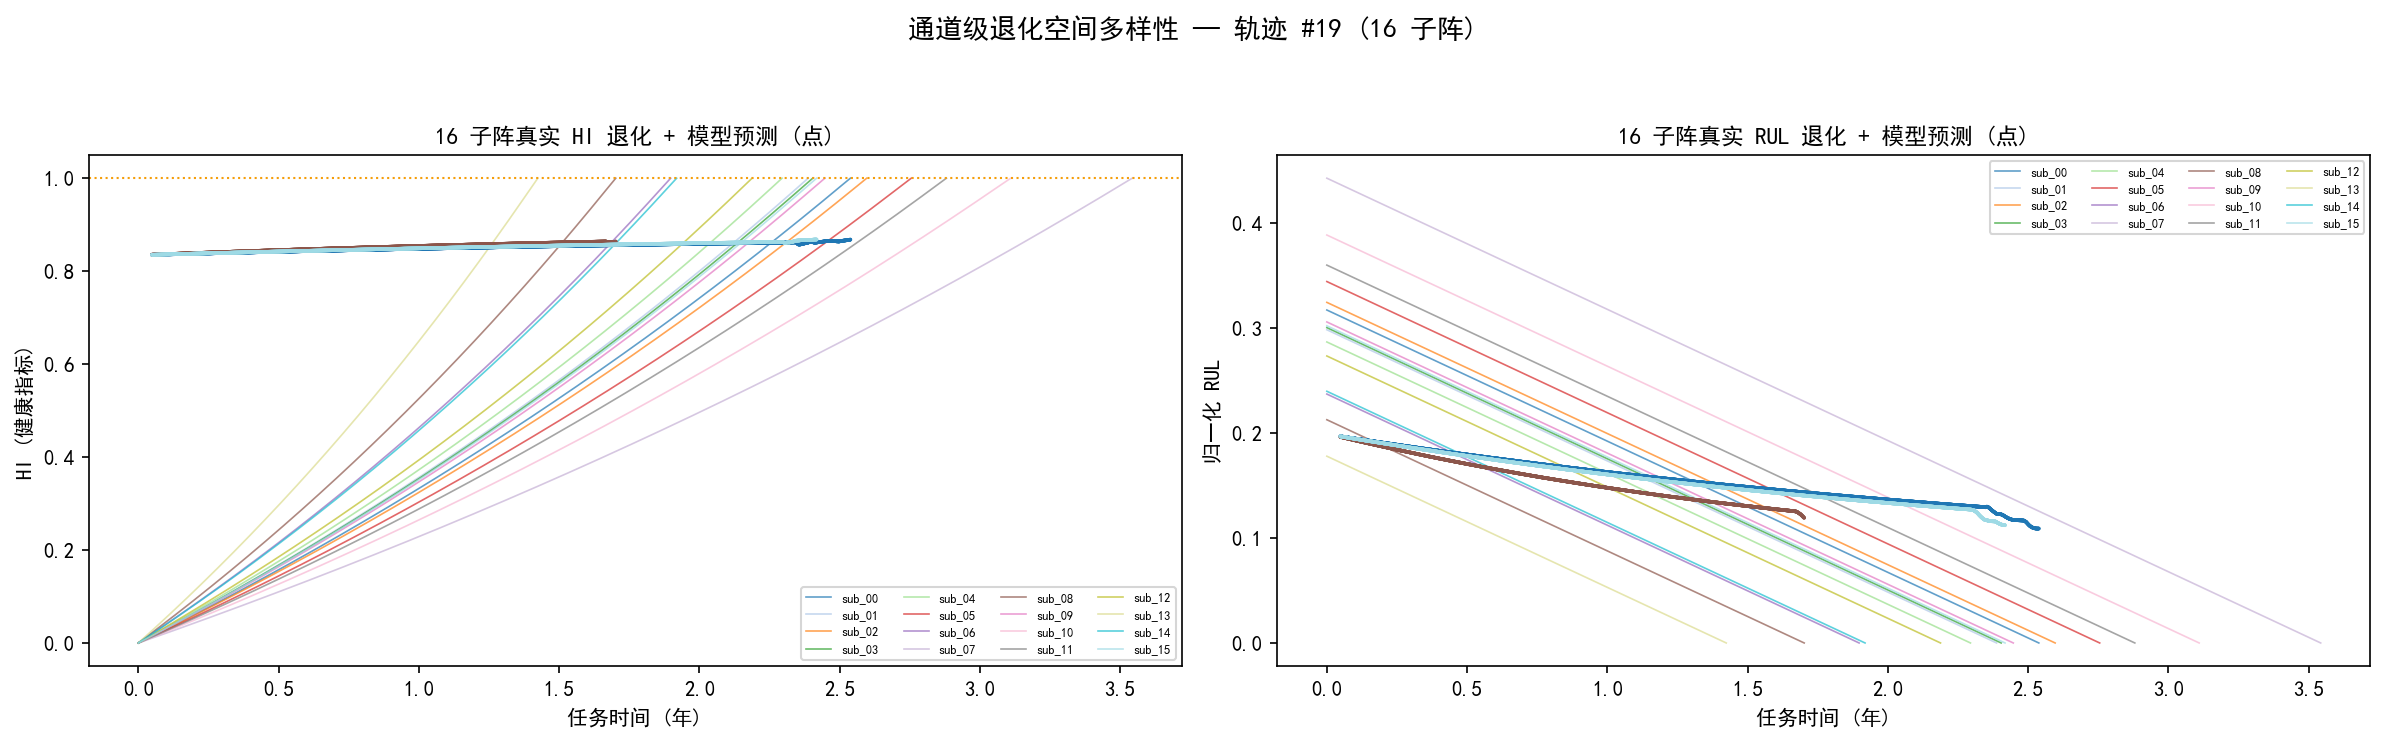
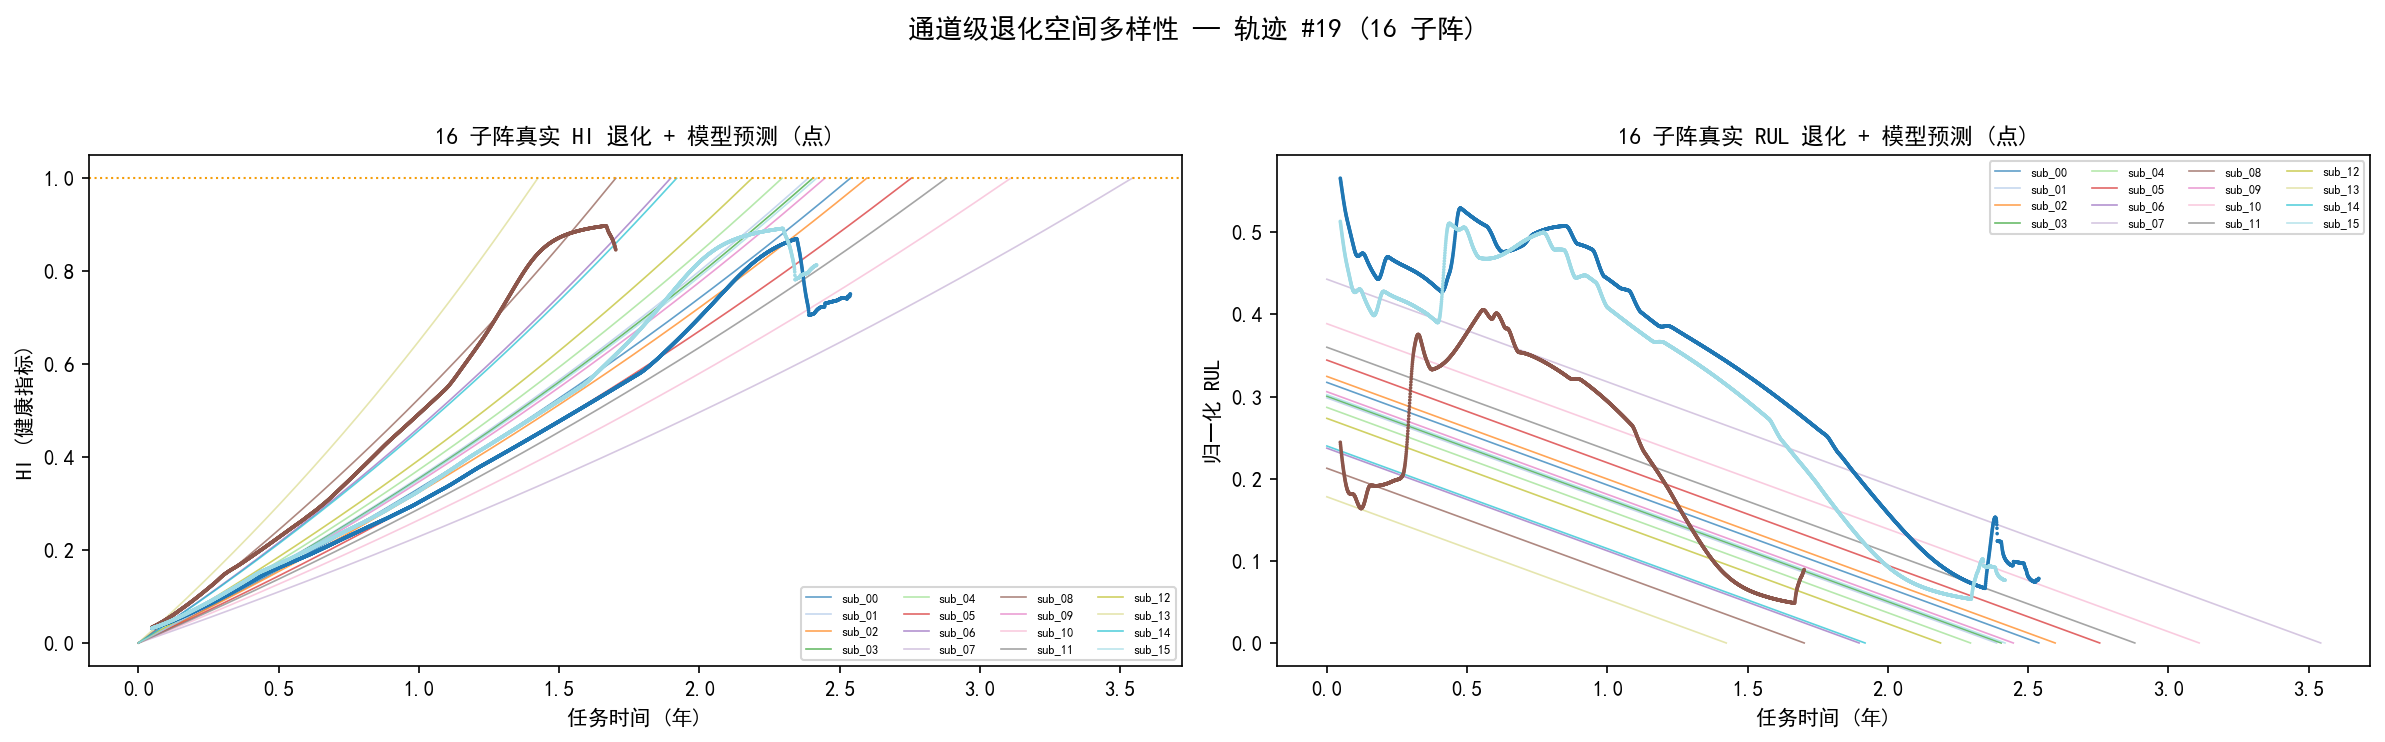
refactor(plot): 通道级三图 bundle-only 化 — 删内嵌重训, 训练前置图消费冻结权重
评审模拟验证发现: 原脚本内嵌 20-epoch 轻量重训(历史设计, 早于 F1 批3 bundle 导出机制),
图内数字与表 5 冻结主结果非同一模型, 且 CPU 出图耗时 1h+。

重构(607→494 行):
- 删除 train_model/_train/_train_epoch/_eval_rmse/build_model 训练路径
- --bundle-dir 必填: component.predict_gru 的 load_bundle+rebuild_model strict 加载
- 归一化用 bundle.json 冻结统计量(与推理链路完全一致)
- 三图由冻结主模型重出(Windows), 图内数字与表 5 同模型同口径

交付封装: 源码包以此版本打包(PACKAGING_NOTES 差异声明第 4 条);
不重打 RC、不动 v0.3.1 Tag — 本 PR 为包-仓一致留痕, 避免赛后漂移无据。

验证: WSL2 容器 + Windows 双端实跑出图; 训练符号零残留; py_compile 过。
归一疑点实验附带排除: 主模型对原始尺度输入亦鲁棒(旧图无虚假, 仅口径不统一)。

diff --git a/scripts/plot_trajectory_channel.py b/scripts/plot_trajectory_channel.py
@@ -41,7 +41,6 @@ from src.utils import load_config, set_seed                                  # n
 from src.transfer.train_transfer import TargetSeqDataset, split_trajectories  # noqa: E402
 from src.transfer.adapter import TransferModel                                # noqa: E402
 from src.transfer.channel_dataset import load_target_channel                  # noqa: E402
-from src.train.pretrain import _rul_loss                                      # noqa: E402
 
 CKPT_DIR = ROOT / "checkpoints"
 N_SUB = 16
@@ -51,7 +50,6 @@ plt.rcParams["axes.unicode_minus"] = False
 
 C_TRUE = "#1a1a1a"
 C_TARGET = "#2563eb"
-C_SOURCE = "#dc2626"
 C_EOL = "#f59e0b"
 # 16 子阵配色 (tab20 色环)
 SUB_COLORS = plt.cm.tab20(np.linspace(0, 1, N_SUB))
@@ -99,105 +97,6 @@ def load_and_prepare(cfg, seed):
                 evT=evT, lbT=lbT, damageT=damageT,
                 tr=tr, va=va, te=te, n_traj=n_traj, L=L, K=K,
                 rul_max=rul_max, n_features=xT.shape[1], h5_path=h5_path)
-
-
-# ===================================================================== 模型
-def build_model(cfg, n_target, device, encoder="gru"):
-    # F1-A: 复用唯一构造函数 (与训练/评估/导出/推理同架构, 防漂移)
-    from src.models.factory import build_transfer_model
-    return build_transfer_model(cfg, n_features=4, n_target=n_target,
-                                encoder_type=encoder, device=device)
-
-
-def _train_epoch(model, loader, opt, device, huber, mse, lam):
-    model.train()
-    for x, h, r, ev, lb, dmg in loader:
-        x, h, r = x.to(device), h.to(device), r.to(device)
-        ev, lb = ev.to(device), lb.to(device)
-        B, Kk = x.size(0), x.size(1)
-        hi_p, rul_p, _ = model(x.reshape(B * Kk, x.size(2), x.size(3)))
-        hi_p = hi_p.view(B, Kk)
-        rul_p = rul_p.view(B, Kk)
-        Lr, _, _ = _rul_loss(rul_p, r, ev, lb, huber, 1.0)
-        Lh = mse(hi_p, h)
-        d = hi_p[:, 1:] - hi_p[:, :-1]
-        loss = Lr + lam[0] * Lh + lam[1] * torch.relu(-d).mean() + lam[2] * (d * d).mean()
-        opt.zero_grad()
-        loss.backward()
-        torch.nn.utils.clip_grad_norm_(model.parameters(), 1.0)
-        opt.step()
-
-
-@torch.no_grad()
-def _eval_rmse(model, loader, device):
-    model.eval()
-    preds, labels, evs = [], [], []
-    for x, h, r, ev, lb, dmg in loader:
-        x = x.to(device)
-        B, Kk = x.size(0), x.size(1)
-        _, rul_p, _ = model(x.reshape(B * Kk, x.size(2), x.size(3)))
-        preds.append(rul_p.cpu().numpy())
-        labels.append(r.reshape(-1).numpy())
-        evs.append(ev.reshape(-1).numpy())
-    p = np.concatenate(preds) if preds else np.array([0.0])
-    t = np.concatenate(labels) if labels else np.array([0.0])
-    e = np.concatenate(evs) if evs else np.array([True])
-    m = e.astype(bool)
-    return float(np.sqrt(np.mean((p[m] - t[m]) ** 2))) if m.any() else 0.0
-
-
-def _train(model, ltr, lva, opt, device, huber, mse, lam, epochs, tag):
-    best = (float("inf"), None)
-    for ep in range(epochs):
-        _train_epoch(model, ltr, opt, device, huber, mse, lam)
-        vm = _eval_rmse(model, lva, device)
-        if vm < best[0]:
-            best = (vm, {k: v.detach().clone() for k, v in model.state_dict().items()})
-    if best[1] is not None:
-        model.load_state_dict(best[1])
-    print(f"  [{tag}] best val_rmse={best[0]:.4f}")
-
-
-def train_model(model_name, data, cfg, device):
-    tc = cfg["transfer"]
-    _lc = cfg["loss"]
-    lam = (float(_lc.get("beta_hi", 1.0)),
-           float(_lc.get("mu_mono", 1.0)),
-           float(_lc.get("nu_smooth", 0.1)))
-    huber = torch.nn.HuberLoss(delta=float(_lc["huber_delta"]))
-    mse = torch.nn.MSELoss()
-    L, K = data["L"], data["K"]
-    tstride = int(tc.get("target_stride", 50))
-    bs = int(cfg["pretrain"]["batch_size"])
-    epochs = int(tc.get("epochs_s2", 20))
-
-    def mkDS(ids):
-        m = np.isin(data["tidT"], ids)
-        return TargetSeqDataset(data["xT"][m], data["hiT"][m], data["rulT"][m],
-                                data["ckT"][m], L, K, stride=tstride,
-                                event_observed=data["evT"][m],
-                                rul_lower_bound=data["lbT"][m],
-                                damage_b=data["damageT"][m])
-
-    ltr = DataLoader(mkDS(data["tr"]), batch_size=bs, shuffle=True)
-    lva = DataLoader(mkDS(data["va"]), batch_size=bs, shuffle=False)
-
-    if model_name == "ch_target_only_gru":
-        model = build_model(cfg, data["n_features"], device, encoder="gru")
-        model.freeze_encoder(False)
-        opt = torch.optim.Adam(model.parameters(), lr=float(tc["finetune_lr"]))
-        _train(model, ltr, lva, opt, device, huber, mse, lam, epochs, "ch_target_only_gru")
-    elif model_name == "ch_source_pretrain_frozen":
-        model = build_model(cfg, data["n_features"], device, encoder="tcn")
-        ckpt = str(CKPT_DIR / "source_phased_array_tcn_pretrain.pt")
-        if Path(ckpt).exists():
-            model.load_pretrained(ckpt, device)
-            print(f"  加载源域 checkpoint: {ckpt}")
-        model.freeze_encoder(True)
-        opt = torch.optim.Adam([p for p in model.parameters() if p.requires_grad],
-                               lr=float(tc["finetune_lr"]))
-        _train(model, ltr, lva, opt, device, huber, mse, lam, epochs, "ch_source_pretrain_frozen")
-    return model
 
 
 # ===================================================================== 逐通道推理
@@ -305,7 +204,7 @@ def select_test_trajectory(data, h5_path, min_T=600):
 
 
 # ===================================================================== 画图
-def plot_ch_rul_trajectory(model_tgt, model_src, data, traj_id, device, out_path):
+def plot_ch_rul_trajectory(model_tgt, data, traj_id, device, out_path):
     """图1: 通道级 RUL 预测轨迹面板 (2×3)。"""
     subs_raw = read_traj_channel_raw(data["h5_path"], traj_id)
     if subs_raw is None:
@@ -323,8 +222,11 @@ def plot_ch_rul_trajectory(model_tgt, model_src, data, traj_id, device, out_path
     L, K = data["L"], data["K"]
     rul_max = data["rul_max"]
     # 归一用 train stats (与训练一致)
-    _fm = data["xT"][np.isin(data["tidT"], data["tr"])].mean(axis=0)
-    _fs = data["xT"][np.isin(data["tidT"], data["tr"])].std(axis=0) + 1e-6
+    if "fm" in data:   # bundle 模式: 冻结统计量 (与 predict_gru 链路一致)
+        _fm, _fs = data["fm"], data["fs"]
+    else:
+        _fm = data["xT"][np.isin(data["tidT"], data["tr"])].mean(axis=0)
+        _fs = data["xT"][np.isin(data["tidT"], data["tr"])].std(axis=0) + 1e-6
 
     fig, axes = plt.subplots(2, 3, figsize=(16, 9))
     for idx, sid in enumerate(picks):
@@ -343,8 +245,7 @@ def plot_ch_rul_trajectory(model_tgt, model_src, data, traj_id, device, out_path
 
         ax.plot(time_years, true_rul, color=C_TRUE, linewidth=1.5, label="真值 RUL", zorder=5)
 
-        for name, model, color in [("target_only_gru", model_tgt, C_TARGET),
-                                   ("source_frozen", model_src, C_SOURCE)]:
+        for name, model, color in [("target_only_gru (bundle)", model_tgt, C_TARGET)]:
             t_idx, p_rul, _, _, _ = predict_channel(
                 model, x_norm, hi, rul_norm, ev, rul_norm, dmg, L, K, device)
             if len(t_idx) > 0:
@@ -372,8 +273,11 @@ def plot_ch_hi_spatial(model_tgt, data, traj_id, device, out_path):
         return
     L, K = data["L"], data["K"]
     rul_max = data["rul_max"]
-    _fm = data["xT"][np.isin(data["tidT"], data["tr"])].mean(axis=0)
-    _fs = data["xT"][np.isin(data["tidT"], data["tr"])].std(axis=0) + 1e-6
+    if "fm" in data:   # bundle 模式: 冻结统计量 (与 predict_gru 链路一致)
+        _fm, _fs = data["fm"], data["fs"]
+    else:
+        _fm = data["xT"][np.isin(data["tidT"], data["tr"])].mean(axis=0)
+        _fs = data["xT"][np.isin(data["tidT"], data["tr"])].std(axis=0) + 1e-6
 
     fig, axes = plt.subplots(1, 2, figsize=(16, 5))
 
@@ -432,8 +336,11 @@ def plot_ch_rul_scatter(model, data, device, out_path, label="ch_target_only_gru
     """图3: 通道级全 test 散点。用 stride=50 采样 + 批量推理加速。"""
     L, K = data["L"], data["K"]
     rul_max = data["rul_max"]
-    _fm = data["xT"][np.isin(data["tidT"], data["tr"])].mean(axis=0)
-    _fs = data["xT"][np.isin(data["tidT"], data["tr"])].std(axis=0) + 1e-6
+    if "fm" in data:   # bundle 模式: 冻结统计量 (与 predict_gru 链路一致)
+        _fm, _fs = data["fm"], data["fs"]
+    else:
+        _fm = data["xT"][np.isin(data["tidT"], data["tr"])].mean(axis=0)
+        _fs = data["xT"][np.isin(data["tidT"], data["tr"])].std(axis=0) + 1e-6
     sample_stride = 50   # 散点图不需要逐点, 每 50 步采一个足够
 
     # 批量构建所有 test 通道的窗口
@@ -532,6 +439,10 @@ def main():
     ap.add_argument("--config", default="configs/phased_array.yaml")
     ap.add_argument("--output-dir", default="docs/figures")
     ap.add_argument("--seed", type=int, default=42)
+    ap.add_argument("--bundle-dir", required=True,
+                    help="inference bundle 目录 (model.pt + bundle.json, 冻结主模型); "
+                         "训练前置, 图只消费冻结权重; 归一用 bundle 冻结统计量, "
+                         "与 component.predict_gru 链路一致")
     args = ap.parse_args()
 
     cfg = load_config(ROOT / args.config)
@@ -550,12 +461,16 @@ def main():
     print(f"  device={device}")
 
     print("=" * 60)
-    print("2. 训练 ch_target_only_gru")
-    model_tgt = train_model("ch_target_only_gru", data, cfg, device)
-
-    print("=" * 60)
-    print("3. 训练 ch_source_pretrain_frozen")
-    model_src = train_model("ch_source_pretrain_frozen", data, cfg, device)
+    print(f"2. 加载 inference bundle: {args.bundle_dir} (冻结主模型, 训练前置)")
+    from component.predict_gru import load_bundle, rebuild_model
+    bd = (ROOT / args.bundle_dir if not Path(args.bundle_dir).is_absolute()
+          else Path(args.bundle_dir))
+    bundle = load_bundle(bd)
+    model_tgt = rebuild_model(bundle, bd, device)
+    data["fm"] = np.array(bundle["normalizer"]["mean"], dtype=np.float64)
+    data["fs"] = np.array(bundle["normalizer"]["std"], dtype=np.float64)
+    print(f"  group={bundle['group']} seed={bundle['seed']} "
+          f"val_rmse={bundle['metrics']['val_rmse']:.4f} (冻结口径)")
 
     print("=" * 60)
     print("4. 选测试轨迹")
@@ -564,7 +479,7 @@ def main():
 
     print("=" * 60)
     print("5. 画图")
-    plot_ch_rul_trajectory(model_tgt, model_src, data, traj_id, device,
+    plot_ch_rul_trajectory(model_tgt, data, traj_id, device,
                           out_dir / "ch_rul_trajectory_panel.png")
     plot_ch_hi_spatial(model_tgt, data, traj_id, device,
                        out_dir / "ch_hi_spatial_diversity.png")
